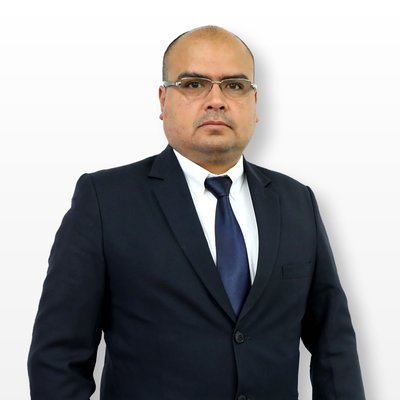
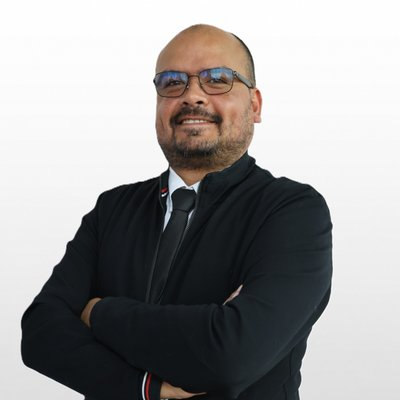
Sistema de disponibilidad por roles, docentes activos/inactivos, y actualizacion de fotos
Agrega el campo estadoDocente (activo/inactivo) para docentes que salen del
programa: data-service.js los filtra del directorio y la base de ideas sin
borrar sus datos, y sus proyectos dejan de contar para la disponibilidad de
otros docentes mientras no se reasignen. Incluye 17 docentes (Diego inactivo,
Hector nuevo) y actualiza las fotos de Juan Carlos, Omar y Hector.

diff --git a/js/data-service.js b/js/data-service.js
@@ -21,6 +21,9 @@ const TIPOS_PROYECTO = ['investigacion', 'desarrollo'];
 // Rol del docente en el programa; si no viene en los datos, se asume "Profesor".
 const ROL_POR_DEFECTO = 'Profesor';
 
+// Si un docente no trae "estadoDocente", se asume "activo".
+const ESTADO_DOCENTE_POR_DEFECTO = 'activo';
+
 // Umbral de proyectos no finalizados (propuesta o proyecto) a partir del cual
 // un Profesor o Asistente se considera NO disponible como asesor. Un
 // Director está SIEMPRE no disponible, sin importar su conteo (ver
@@ -77,6 +80,15 @@ async function obtenerIdsIdeasTomadas() {
 /** Cuenta los proyectos de un docente que aún no han finalizado (propuesta o proyecto). */
 function contarProyectosNoFinalizados(proyectos, docenteId) {
   return proyectos.filter((p) => p.docenteId === docenteId && p.estado !== 'finalizado').length;
+}
+
+/** ids de docentes con `estadoDocente` "inactivo" (salieron del programa). */
+function idsDocentesInactivos(docentes) {
+  return new Set(
+    docentes
+      .filter((docente) => (docente.estadoDocente ?? ESTADO_DOCENTE_POR_DEFECTO) === 'inactivo')
+      .map((docente) => docente.id)
+  );
 }
 
 /**
@@ -209,13 +221,20 @@ function validarProyecto(proyecto, indiceTaxonomia) {
 }
 
 /**
- * Devuelve todos los docentes, ya validados contra la taxonomía de config.json,
- * con dos campos derivados (no vienen en docentes.json, se calculan aquí):
+ * Devuelve los docentes ACTIVOS (`estadoDocente` distinto de "inactivo"), ya
+ * validados contra la taxonomía de config.json, con dos campos derivados (no
+ * vienen en docentes.json, se calculan aquí):
  *   - `proyectosActivos`: cuántos de sus proyectos NO están finalizados.
  *   - `disponible`: según su `rol` y `proyectosActivos` (ver `calcularDisponibilidad`).
  * `rol` se normaliza a `ROL_POR_DEFECTO` si el docente no lo trae. Cada idea
  * de investigación del docente también viene anotada con `tomada` (ver
  * `obtenerIdsIdeasTomadas`).
+ *
+ * Los docentes inactivos NO se borran de docentes.json ni se pierden sus
+ * datos: solo se excluyen de este resultado (y por lo tanto del directorio y
+ * de la base de ideas, que se construyen a partir de él). Sus proyectos
+ * siguen intactos en proyectos.json esperando reasignación, y no cuentan
+ * para la disponibilidad de ningún docente activo mientras eso no ocurra.
  */
 export async function obtenerDocentes() {
   if (!cacheDocentes) {
@@ -225,14 +244,20 @@ export async function obtenerDocentes() {
       obtenerProyectos(),
       obtenerIdsIdeasTomadas()
     ]);
-    cacheDocentes = datos
-      .filter((docente) => validarDocente(docente, indiceTaxonomia))
+
+    const docentesValidos = datos.filter((docente) => validarDocente(docente, indiceTaxonomia));
+    const idsInactivos = idsDocentesInactivos(docentesValidos);
+    const proyectosDeActivos = proyectos.filter((proyecto) => !idsInactivos.has(proyecto.docenteId));
+
+    cacheDocentes = docentesValidos
+      .filter((docente) => !idsInactivos.has(docente.id))
       .map((docente) => {
         const rol = docente.rol ?? ROL_POR_DEFECTO;
-        const proyectosActivos = contarProyectosNoFinalizados(proyectos, docente.id);
+        const proyectosActivos = contarProyectosNoFinalizados(proyectosDeActivos, docente.id);
         return {
           ...docente,
           rol,
+          estadoDocente: docente.estadoDocente ?? ESTADO_DOCENTE_POR_DEFECTO,
           ideasInvestigacion: (docente.ideasInvestigacion ?? [])
             .filter((idea) => validarIdea(idea, indiceTaxonomia))
             .map((idea) => ({ ...idea, tomada: idsIdeasTomadas.has(idea.id) })),

diff --git a/tools/excel_to_json.py b/tools/excel_to_json.py
@@ -186,11 +186,15 @@ def build(wb, area_to_ejes):
         rol = clean(row[4]) or "Profesor"   # columna E; por defecto Profesor
         if rol not in ("Profesor", "Asistente", "Director"):
             errors.append(f"Docentes fila {r}: rol inválido {rol!r} (debe ser 'Profesor', 'Asistente' o 'Director').")
+        estado_docente = clean(row[5]) or "activo"   # columna F; por defecto activo
+        if estado_docente not in ("activo", "inactivo"):
+            errors.append(f"Docentes fila {r}: estadoDocente inválido {estado_docente!r} (debe ser 'activo' o 'inactivo').")
         docentes[did] = {
             "id": did,
             "nombre": nombre,
             "titulos": split_list(row[2]),
             "rol": rol,
+            "estadoDocente": estado_docente,
             "areas": [],                 # se llena desde 'Areas docente'
             "ideasInvestigacion": [],    # se llena desde 'Ideas docentes'
             "contacto": clean(row[3]),

diff --git a/CLAUDE.md b/CLAUDE.md
@@ -100,6 +100,7 @@ por nombre exacto.
   "id": "docente-01",
   "nombre": "Nombre Completo",
   "rol": "Profesor",
+  "estadoDocente": "activo",
   "titulos": ["Ingeniero de Sistemas", "Magíster en..."],
   "areas": [
     { "area": "Ingeniería de Software", "ejes": ["Construcción y Evolución de Software"] },
@@ -124,6 +125,9 @@ por nombre exacto.
   asume `Profesor` (ver `data-service.js`). Determina, junto con
   `proyectosActivos`, la disponibilidad del docente como asesor — ver
   "Disponibilidad del docente" más abajo.
+- `estadoDocente`: `activo` o `inactivo`. Si un docente no lo trae, se asume
+  `activo`. Marca a los docentes que salieron del programa; ver "Docentes
+  inactivos" más abajo para su efecto en el resto del sitio.
 
 ### Proyecto dirigido (data/proyectos.json — array de objetos)
 
@@ -174,6 +178,8 @@ sus proyectos NO finalizados (estado `propuesta` o `proyecto`). Cada docente
 sale de `obtenerDocentes`/`obtenerDocentePorId` con dos campos calculados:
 
 - `proyectosActivos`: cuántos de sus proyectos están en `propuesta` o `proyecto`.
+  Los proyectos cuyo `docenteId` sea un docente **inactivo** no se cuentan
+  para nadie (ver "Docentes inactivos" más abajo).
 - `disponible`: `true`/`false`, según esta regla por `rol`:
   - **Director**: SIEMPRE `false` (no disponible), sin importar el conteo —
     el motivo es estructural (dedicación a la coordinación del programa), no
@@ -186,6 +192,31 @@ En el directorio, los docentes disponibles se listan primero y los no
 disponibles después; dentro de cada grupo se conserva el orden original (por
 `id`). Las tarjetas no disponibles siguen siendo completamente clickeables —
 la disponibilidad es solo informativa, nunca deshabilita el perfil.
+
+### Docentes inactivos (`estadoDocente: "inactivo"`)
+
+Un docente que salió del programa **no se borra** de `docentes.json`: se
+marca `"estadoDocente": "inactivo"` y sus datos (perfil, ideas, proyectos)
+siguen intactos, esperando reasignación. `data-service.js` filtra estos
+docentes en `obtenerDocentes()` — el único punto por el que pasan tanto el
+directorio como la base de ideas — con este efecto en cascada:
+
+- **Directorio**: el docente inactivo no aparece como tarjeta. Si se navega
+  directo a su perfil por URL (`?docente=docente-03`), se comporta igual que
+  un id inexistente (mensaje "No se encontró el docente solicitado").
+- **Base de ideas**: sus ideas de investigación desaparecen de la base
+  combinada, porque esta se arma recorriendo `obtenerDocentes()` (ver
+  `obtenerBaseDeIdeas`).
+- **Proyectos**: siguen existiendo tal cual en `proyectos.json` (no se
+  eliminan ni se reasignan solos), pero no se muestran en ningún lado porque
+  ya no hay perfil desde el cual verlos.
+- **Disponibilidad**: sus proyectos NO finalizados no cuentan para el
+  `proyectosActivos` de ningún docente activo, mientras no se reasignen a
+  otro docente.
+
+Un docente vuelve a aparecer en todo el sitio en cuanto su `estadoDocente`
+vuelve a `activo` (o se quita el campo, ya que el valor por defecto es
+`activo`).
 
 ### Idea externa (data/ideas-externas.json — array de objetos)
 
